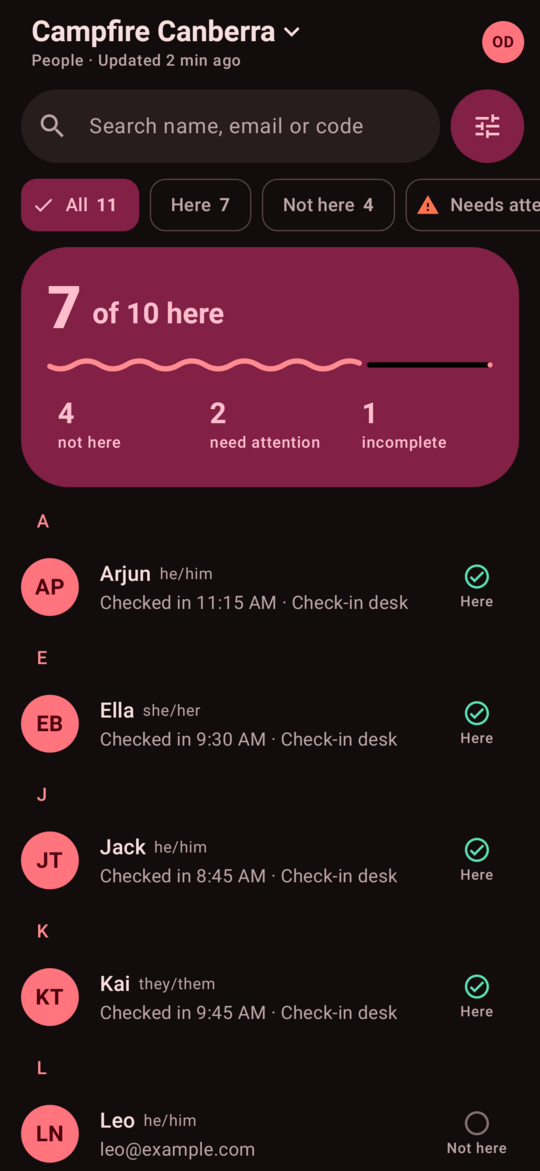
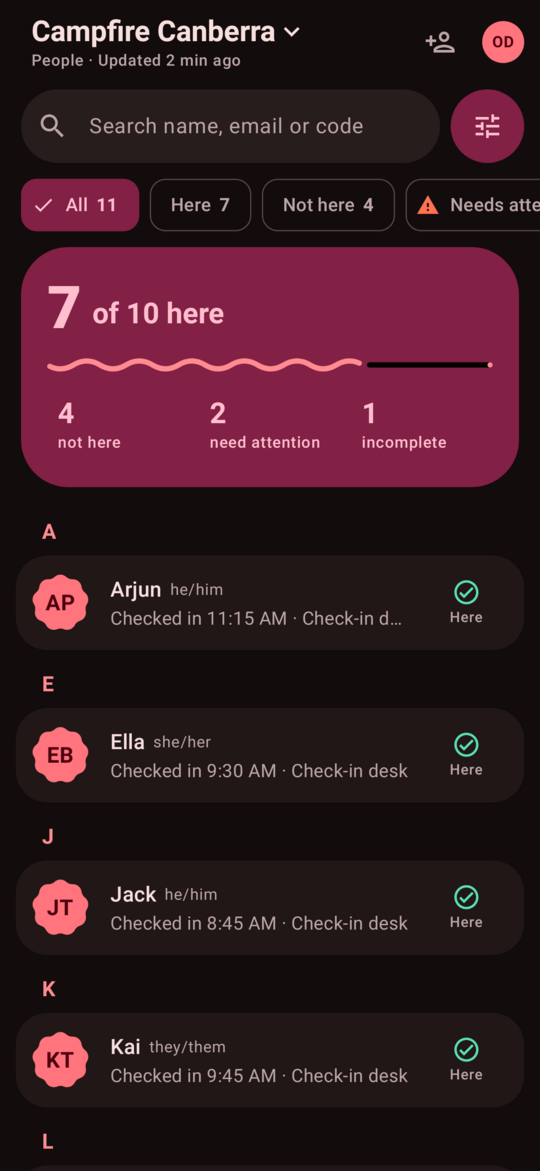
Address review: hero sizing, a11y, switch-row morph, contrast
- Hero decoration no longer sets the card's height
- Travel rows restate their click action for TalkBack; spacing after a day
- ExpressiveSurface: min touch target, long-press without click, dimmed when disabled, configurable role
- Settings switch rows toggle via the segment so they morph on press too
- Torch toggle gets toggleable shapes; Latest scans becomes a segmented group
- Rows on surfaceContainer for contrast in dark mode; refresh README screenshots

Claude-Session: https://claude.ai/code/session_01HnQLE5zHkA4JyUojeDAuCy

diff --git a/android/app/src/main/java/au/ingo/betterattend/ui/dashboard/DashboardContent.kt b/android/app/src/main/java/au/ingo/betterattend/ui/dashboard/DashboardContent.kt
@@ -23,6 +23,7 @@ import androidx.compose.foundation.layout.fillMaxSize
 import androidx.compose.foundation.layout.fillMaxWidth
 import androidx.compose.foundation.layout.height
 import androidx.compose.foundation.layout.offset
+import androidx.compose.foundation.layout.wrapContentSize
 import androidx.compose.foundation.layout.heightIn
 import androidx.compose.foundation.layout.padding
 import androidx.compose.foundation.layout.size
@@ -64,7 +65,6 @@ import androidx.compose.material3.ButtonGroupDefaults
 import androidx.compose.material3.CircularWavyProgressIndicator
 import androidx.compose.material3.DropdownMenuItem
 import androidx.compose.material3.FilledTonalButton
-import androidx.compose.material3.HorizontalDivider
 import androidx.compose.material3.Icon
 import androidx.compose.material3.LargeFlexibleTopAppBar
 import androidx.compose.material3.LinearProgressIndicator
@@ -126,7 +126,6 @@ import au.ingo.betterattend.ui.components.MaterialShapesFlower
 import au.ingo.betterattend.ui.components.MaterialShapesSunny
 import au.ingo.betterattend.ui.components.ExpressiveSurface
 import au.ingo.betterattend.ui.components.SegmentedItem
-import au.ingo.betterattend.ui.components.rememberMorphShape
 import au.ingo.betterattend.ui.components.OfflineBanner
 import au.ingo.betterattend.ui.components.Pill
 import au.ingo.betterattend.ui.components.rememberHaptics
@@ -407,11 +406,14 @@ private fun HeroCard(modifier: Modifier = Modifier, content: @Composable () -> U
         modifier = modifier.fillMaxWidth(),
     ) {
         Box {
-            // A big, soft Expressive shape peeking in from the corner, behind the numbers.
-            Box(
-                Modifier.align(Alignment.TopEnd).offset(x = 56.dp, y = (-64).dp).size(220.dp).rotate(12f)
-                    .clip(MaterialShapesSunny).background(MaterialTheme.colorScheme.onPrimaryContainer.copy(alpha = 0.06f)),
-            )
+            // A big, soft Expressive shape peeking in from the corner, behind the numbers. matchParentSize +
+            // unbounded wrap so it never makes the card taller than its content.
+            Box(Modifier.matchParentSize().wrapContentSize(Alignment.TopEnd, unbounded = true)) {
+                Box(
+                    Modifier.offset(x = 56.dp, y = (-64).dp).size(220.dp).rotate(12f)
+                        .clip(MaterialShapesSunny).background(MaterialTheme.colorScheme.onPrimaryContainer.copy(alpha = 0.06f)),
+                )
+            }
             Box(Modifier.padding(20.dp)) { content() }
         }
     }
@@ -819,7 +821,7 @@ private fun RecentCheckIns(recent: List<Participant>, now: Instant, onOpen: (Str
                 color = MaterialTheme.colorScheme.surfaceContainerHigh,
             ) {
                 Row(Modifier.padding(horizontal = 12.dp, vertical = 10.dp), verticalAlignment = Alignment.CenterVertically) {
-                    Avatar(p.name, p.headshotUrl, size = 40.dp, shape = rememberMorphShape(p.isCheckedIn))
+                    Avatar(p.name, p.headshotUrl, size = 40.dp, shape = MaterialShapesCookie)
                     Spacer(Modifier.width(16.dp))
                     Column(Modifier.weight(1f)) {
                         Text(p.fullName ?: p.name, style = MaterialTheme.typography.bodyLarge, maxLines = 1, overflow = TextOverflow.Ellipsis)
@@ -904,10 +906,10 @@ private fun RecentScans(scans: List<Scan>, travel: TravelCalendar?, now: Instant
     val names = remember(travel) { travel?.entries?.mapNotNull { e -> e.participantEventId?.let { it to e.name } }?.toMap().orEmpty() }
     DashCard(title = "Latest scans") {
         scans.forEachIndexed { i, scan ->
-            if (i > 0) HorizontalDivider(color = MaterialTheme.colorScheme.outlineVariant.copy(alpha = 0.5f))
             val who = scan.participantEventId?.let(names::get)
                 ?: "Attendee ${(scan.participantId ?: scan.participantEventId)?.substringBefore('-')?.uppercase() ?: ""}".trim()
-            Row(Modifier.padding(vertical = 10.dp), verticalAlignment = Alignment.CenterVertically) {
+            SegmentedItem(i, scans.size, color = MaterialTheme.colorScheme.surfaceContainerHigh) {
+            Row(Modifier.padding(horizontal = 12.dp, vertical = 10.dp), verticalAlignment = Alignment.CenterVertically) {
                 val ctx = scan.scanContext
                 Icon(
                     when {
@@ -927,6 +929,7 @@ private fun RecentScans(scans: List<Scan>, travel: TravelCalendar?, now: Instant
                     )
                 }
                 Text(Time.ago(scan.scannedAt, now) ?: "", style = MaterialTheme.typography.labelMedium, color = MaterialTheme.colorScheme.onSurfaceVariant)
+            }
             }
         }
     }

diff --git a/android/app/src/main/java/au/ingo/betterattend/ui/components/Expressive.kt b/android/app/src/main/java/au/ingo/betterattend/ui/components/Expressive.kt
@@ -14,6 +14,7 @@ import androidx.compose.material3.MaterialShapes
 import androidx.compose.material3.MaterialTheme
 import androidx.compose.material3.Surface
 import androidx.compose.material3.contentColorFor
+import androidx.compose.material3.minimumInteractiveComponentSize
 import androidx.compose.material3.ripple
 import androidx.compose.runtime.Composable
 import androidx.compose.runtime.Immutable
@@ -81,6 +82,7 @@ fun ExpressiveSurface(
     color: Color = MaterialTheme.colorScheme.surfaceContainer,
     contentColor: Color = contentColorFor(color),
     enabled: Boolean = true,
+    role: Role = Role.Button,
     onClickLabel: String? = null,
     onLongClick: (() -> Unit)? = null,
     onLongClickLabel: String? = null,
@@ -88,19 +90,23 @@ fun ExpressiveSurface(
 ) {
     val source = remember { MutableInteractionSource() }
     val shape = rememberPressMorphShape(source, top, bottom, pressed)
-    val m = if (onClick == null) modifier else modifier
+    val interactive = onClick != null || onLongClick != null
+    val m = if (!interactive) modifier else modifier
+        .minimumInteractiveComponentSize()
         .clip(shape)
         .combinedClickable(
             interactionSource = source,
             indication = ripple(),
             enabled = enabled,
             onClickLabel = onClickLabel,
-            role = Role.Button,
+            role = role,
             onLongClickLabel = onLongClickLabel,
             onLongClick = onLongClick,
-            onClick = onClick,
+            onClick = onClick ?: {},
         )
-    Surface(shape = shape, color = color, contentColor = contentColor, modifier = m, content = content)
+    // Disabled rows dim their content so they don't read as tappable.
+    val fg = if (interactive && !enabled) contentColor.copy(alpha = 0.38f) else contentColor
+    Surface(shape = shape, color = color, contentColor = fg, modifier = m, content = content)
 }
 
 /** One row of a [Segmented] group. */
@@ -111,6 +117,7 @@ fun SegmentedItem(
     modifier: Modifier = Modifier,
     onClick: (() -> Unit)? = null,
     enabled: Boolean = true,
+    role: Role = Role.Button,
     color: Color = MaterialTheme.colorScheme.surfaceContainer,
     contentColor: Color = contentColorFor(color),
     onLongClick: (() -> Unit)? = null,
@@ -126,6 +133,7 @@ fun SegmentedItem(
         color = color,
         contentColor = contentColor,
         enabled = enabled,
+        role = role,
         onLongClick = onLongClick,
         onLongClickLabel = onLongClickLabel,
         content = content,

diff --git a/android/app/src/main/java/au/ingo/betterattend/ui/settings/SettingsContent.kt b/android/app/src/main/java/au/ingo/betterattend/ui/settings/SettingsContent.kt
@@ -14,7 +14,6 @@ import androidx.compose.foundation.layout.padding
 import androidx.compose.foundation.layout.size
 import androidx.compose.foundation.layout.width
 import androidx.compose.foundation.lazy.LazyColumn
-import androidx.compose.foundation.selection.toggleable
 import androidx.compose.foundation.text.KeyboardOptions
 import androidx.compose.material.icons.Icons
 import androidx.compose.material.icons.automirrored.outlined.ArrowBack
@@ -78,6 +77,8 @@ import androidx.compose.ui.semantics.Role
 import androidx.compose.ui.semantics.contentDescription
 import androidx.compose.ui.semantics.heading
 import androidx.compose.ui.semantics.semantics
+import androidx.compose.ui.state.ToggleableState
+import androidx.compose.ui.semantics.toggleableState
 import androidx.compose.ui.text.input.ImeAction
 import androidx.compose.ui.text.input.KeyboardCapitalization
 import androidx.compose.ui.text.style.TextOverflow
@@ -380,8 +381,10 @@ private fun Segment(
     count: Int,
     onClick: (() -> Unit)? = null,
     enabled: Boolean = true,
+    role: Role = Role.Button,
+    modifier: Modifier = Modifier,
     content: @Composable () -> Unit,
-) = SegmentedItem(index, count, onClick = onClick, enabled = enabled, content = content)
+) = SegmentedItem(index, count, modifier, onClick = onClick, enabled = enabled, role = role, content = content)
 
 @Composable
 private fun SwitchRow(
@@ -395,14 +398,20 @@ private fun SwitchRow(
     onChange: (Boolean) -> Unit,
 ) {
     val haptics = rememberHaptics()
-    Segment(index, count) {
+    // The whole segment toggles (and morphs on press); the switch is just its indicator.
+    Segment(
+        index, count,
+        onClick = { haptics.toggle(!checked); onChange(!checked) },
+        enabled = enabled,
+        role = Role.Switch,
+        modifier = Modifier.semantics { toggleableState = ToggleableState(checked) },
+    ) {
         ListItem(
             headlineContent = { Text(title) },
             supportingContent = { Text(subtitle) },
             leadingContent = { Icon(icon, null) },
             trailingContent = { Switch(checked = checked, onCheckedChange = null, enabled = enabled) },
             colors = ListItemDefaults.colors(containerColor = Color.Transparent),
-            modifier = Modifier.toggleable(value = checked, enabled = enabled, role = Role.Switch) { haptics.toggle(it); onChange(it) },
         )
     }
 }

diff --git a/android/app/src/main/java/au/ingo/betterattend/ui/travel/TravelContent.kt b/android/app/src/main/java/au/ingo/betterattend/ui/travel/TravelContent.kt
@@ -74,6 +74,9 @@ import androidx.compose.ui.graphics.vector.ImageVector
 import androidx.compose.ui.input.nestedscroll.nestedScroll
 import androidx.compose.ui.semantics.clearAndSetSemantics
 import androidx.compose.ui.semantics.contentDescription
+import androidx.compose.ui.semantics.role
+import androidx.compose.ui.semantics.onClick as semanticsOnClick
+import androidx.compose.ui.semantics.Role
 import androidx.compose.ui.semantics.heading
 import androidx.compose.ui.semantics.semantics
 import androidx.compose.ui.text.SpanStyle
@@ -393,7 +396,7 @@ internal fun TravelRow(
     count: Int = 1,
 ) {
     val status = MaterialTheme.status
-    val container = if (entry.isUnaccompaniedMinor) status.warningContainer.copy(alpha = 0.35f) else MaterialTheme.colorScheme.surfaceContainerLow
+    val container = if (entry.isUnaccompaniedMinor) status.warningContainer.copy(alpha = 0.35f) else MaterialTheme.colorScheme.surfaceContainer
     val inbound = entry.direction == "inbound"
     val time = Time.time(entry.primaryTimeAt, tz)
     val description = buildString {
@@ -464,7 +467,11 @@ internal fun TravelRow(
     }
     SegmentedItem(
         index, count,
-        modifier.padding(horizontal = 12.dp).clearAndSetSemantics { contentDescription = description },
+        // The row is one TalkBack stop, so its click action is restated here (clearing drops the inner one).
+        modifier.padding(start = 12.dp, end = 12.dp, bottom = if (index == count - 1) 8.dp else 0.dp).clearAndSetSemantics {
+            contentDescription = description
+            if (clickable) { role = Role.Button; semanticsOnClick { onClick(); true } }
+        },
         onClick = if (clickable) onClick else null,
         color = container,
         content = content,

diff --git a/android/app/src/main/java/au/ingo/betterattend/ui/scan/ScanScreen.kt b/android/app/src/main/java/au/ingo/betterattend/ui/scan/ScanScreen.kt
@@ -487,7 +487,7 @@ private fun Controls(state: ScanUiState, actions: ScanActions) {
     Row(verticalAlignment = Alignment.CenterVertically, horizontalArrangement = Arrangement.spacedBy(12.dp)) {
         HorizontalFloatingToolbar(expanded = true, colors = FloatingToolbarDefaults.standardFloatingToolbarColors()) {
             if (state.camera == CameraAccess.Granted) {
-                IconToggleButton(checked = state.torchOn, onCheckedChange = { actions.onToggleTorch() }, enabled = state.torchAvailable) {
+                IconToggleButton(checked = state.torchOn, onCheckedChange = { actions.onToggleTorch() }, enabled = state.torchAvailable, shapes = IconButtonDefaults.toggleableShapes()) {
                     Icon(if (state.torchOn) Icons.Outlined.FlashlightOn else Icons.Outlined.FlashlightOff,
                         if (state.torchOn) "Turn torch off" else "Turn torch on")
                 }

diff --git a/android/app/src/main/java/au/ingo/betterattend/ui/people/ParticipantVisuals.kt b/android/app/src/main/java/au/ingo/betterattend/ui/people/ParticipantVisuals.kt
@@ -154,7 +154,7 @@ fun ParticipantRow(
 ) {
     val v = statusVisual(p)
     val secondary = checkInLine(p, timezone) ?: p.email ?: statusLabel(p.status)
-    SegmentedItem(index, count, modifier.padding(horizontal = 12.dp), onClick = onClick, color = MaterialTheme.colorScheme.surfaceContainerLow) {
+    SegmentedItem(index, count, modifier.padding(horizontal = 12.dp), onClick = onClick) {
         Row(
             Modifier.heightIn(min = 72.dp).padding(horizontal = 12.dp, vertical = 10.dp),
             verticalAlignment = Alignment.CenterVertically,
